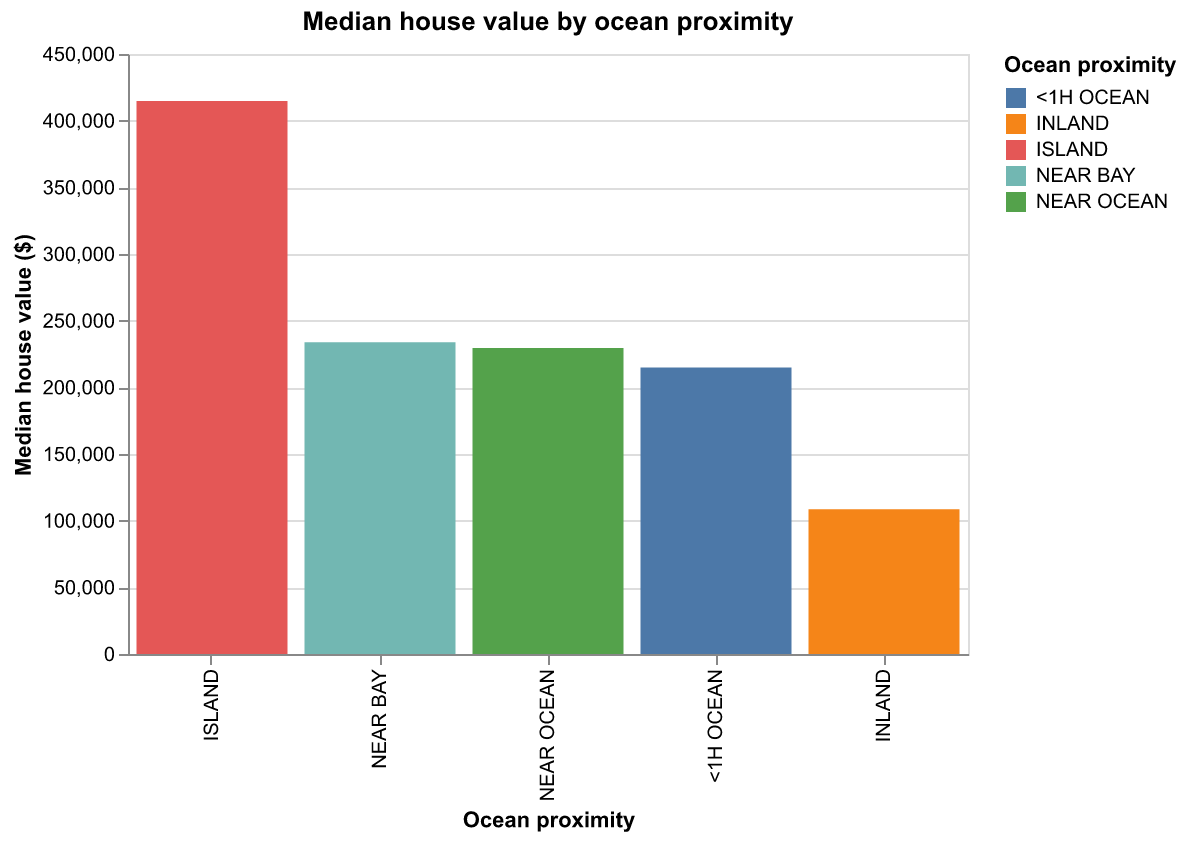
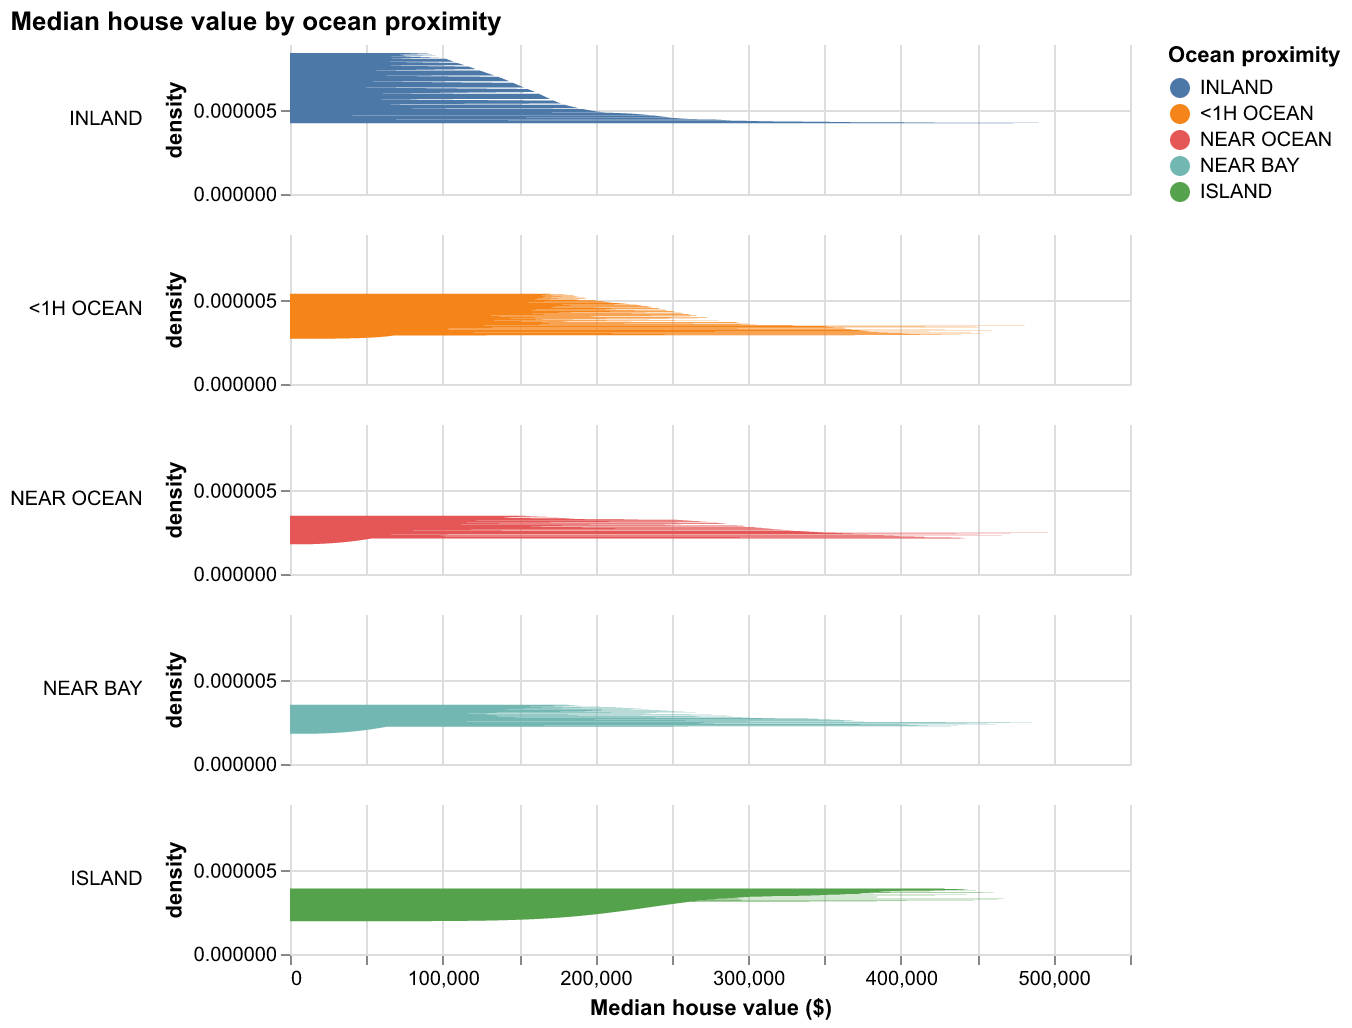
Changes the bar plot to box plot

diff --git a/src/eda_code.py b/src/eda_code.py
@@ -244,25 +244,23 @@ def correlation_heatmap(df: pd.DataFrame) -> alt.Chart:
     )
 
 
-def ocean_proximity_bar(df: pd.DataFrame) -> alt.Chart:
+def ocean_proximity_boxplot(df: pd.DataFrame) -> alt.Chart:
     """
-    Bar chart of median house value by ocean_proximity.
+    Box plot of median house value by ocean_proximity.
     """
     col = "ocean_proximity"
     if col not in df.columns or "median_house_value" not in df.columns:
-        return alt.Chart(pd.DataFrame()).mark_bar().properties(width=CHART_WIDTH, height=CHART_HEIGHT)
-    agg = df.groupby(col, observed=True)["median_house_value"].median().reset_index()
-    agg = agg.sort_values("median_house_value", ascending=False)
+        return alt.Chart(pd.DataFrame()).mark_boxplot().properties(width=CHART_WIDTH, height=CHART_HEIGHT)
+    data = df[[col, "median_house_value"]].dropna()
+    if data.empty:
+        return alt.Chart(pd.DataFrame()).mark_boxplot().properties(width=CHART_WIDTH, height=CHART_HEIGHT)
     return (
-        alt.Chart(agg)
-        .mark_bar()
+        alt.Chart(data)
+        .mark_boxplot(extent="min-max")
         .encode(
-            alt.X("ocean_proximity:N", title="Ocean proximity", sort="-y"),
-            alt.Y("median_house_value:Q", title="Median house value ($)"),
-            alt.Color(
-                "ocean_proximity:N",
-                legend=alt.Legend(title="Ocean proximity", orient="right"),
-            ),
+            alt.X(f"{col}:N", title="Ocean proximity"),
+            alt.Y("median_house_value:Q", title="Median house value ($)", scale=alt.Scale(zero=False)),
+            alt.Color(f"{col}:N", legend=alt.Legend(title="Ocean proximity", orient="right")),
         )
         .properties(width=CHART_WIDTH, height=CHART_HEIGHT, title="Median house value by ocean proximity")
     )

diff --git a/scripts/run_eda.py b/scripts/run_eda.py
@@ -23,7 +23,7 @@ from src.eda_code import (
     target_distribution,
     scatter_matrix_like,
     correlation_heatmap,
-    ocean_proximity_bar,
+    ocean_proximity_boxplot,
     geo_value_scatter,
     geo_value_binned_mean,
     geo_value_extremes,
@@ -75,7 +75,7 @@ def main() -> None:
     save_chart(target_distribution(df), OUTPUT_DIR / "target_distribution.png")
     save_chart(scatter_matrix_like(df, cols=["median_income", "housing_median_age", "latitude", "longitude"]), OUTPUT_DIR / "scatter_matrix.png")
     save_chart(correlation_heatmap(df), OUTPUT_DIR / "correlation_heatmap.png")
-    save_chart(ocean_proximity_bar(df), OUTPUT_DIR / "ocean_proximity_bar.png")
+    save_chart(ocean_proximity_boxplot(df), OUTPUT_DIR / "ocean_proximity_boxplot.png")
     save_chart(geo_value_scatter(df), OUTPUT_DIR / "geo_value_scatter.png")
     save_chart(geo_value_binned_mean(df, bin_size=0.25), OUTPUT_DIR / "geo_value_binned.png")
     save_chart(geo_value_extremes(df), OUTPUT_DIR / "geo_value_extremes.png")
@@ -132,7 +132,7 @@ Run `python scripts/run_eda.py` to regenerate outputs.
 
 {ocean_counts_md}
 
-![Value by ocean proximity](eda_outputs/ocean_proximity_bar.png)
+![Value by ocean proximity](eda_outputs/ocean_proximity_boxplot.png)
 
 - Coastal and bay-adjacent blocks tend to have higher median values.
 

diff --git a/reports/m1_proposal.md b/reports/m1_proposal.md
@@ -37,109 +37,36 @@ By interactively exploring these variables, Dr. Ramirez can better understand th
 
 ## Section 4: Exploratory Data Analysis
 
-This section presents an exploratory analysis of the 1990 California housing census data. The goal is to characterize the distribution of key variables, assess data quality, identify relationships between predictors and the target (median house value), and uncover spatial patterns that matter for urban economics and investment decisions. These findings directly inform which variables and views should be prioritized in the dashboard. Run `python scripts/run_eda.py` to regenerate outputs.
+In this section, we will perform an exploratory data analysis on the California housing data. We will use the data to answer the research questions related to user story 3.
 
-### Data overview and quality
-
-| metric         |      value |
-|:---------------|-----------:|
-| rows           | 20640      |
-| columns        |    10      |
-| memory (MB)    |     2.6981 |
-| duplicate rows |     0      |
-
-The dataset comprises 20,640 census block groups—the finest geographic level at which the U.S. Census Bureau publishes detailed housing statistics. With 10 variables per block and no duplicate rows, the data are well suited for interactive exploration. The modest memory footprint (~2.7 MB) allows for efficient client-side or server-side filtering and aggregation in a web-based dashboard, even when users apply multiple filters simultaneously.
-
-| column         |   missing_count |   missing_pct |
-|:---------------|----------------:|--------------:|
-| total_bedrooms |             207 |             1 |
-
-Missing data are confined to `total_bedrooms`, affecting only 1% of blocks (207 of 20,640). This pattern is common in census-derived housing data, where some blocks lack complete structural surveys. For modeling, simple imputation—such as the median number of bedrooms per block within the same ocean-proximity category—is typically sufficient. For visualization, excluding or imputing these cases has negligible impact on the overall picture.
-
-| column             | dtype   |
-|:-------------------|:--------|
-| longitude          | float64 |
-| latitude           | float64 |
-| housing_median_age | float64 |
-| total_rooms        | float64 |
-| total_bedrooms     | float64 |
-| population         | float64 |
-| households         | float64 |
-| median_income      | float64 |
-| median_house_value | float64 |
-| ocean_proximity    | str     |
-
-Nine variables are numeric (float64), spanning geography (longitude, latitude), structure (housing age, room counts), and demographics (population, households, income, house value). The single categorical variable, `ocean_proximity`, captures waterfront access—a hypothesized driver of price premiums—and will be central for comparing coastal versus inland markets.
-
-| column             |   count |        mean |         std |        min |         25% |         50% |         75% |         max |        q10 |         q90 |
-|:-------------------|--------:|------------:|------------:|-----------:|------------:|------------:|------------:|------------:|-----------:|------------:|
-| longitude          |   20640 |   -119.57   |      2.0035 |  -124.35   |   -121.8    |   -118.49   |   -118.01   |   -114.31   |  -122.29   |   -117.25   |
-| latitude           |   20640 |     35.6319 |      2.136  |    32.54   |     33.93   |     34.26   |     37.71   |     41.95   |    33.63   |     38.48   |
-| housing_median_age |   20640 |     28.6395 |     12.5856 |     1      |     18      |     29      |     37      |     52      |    13      |     46      |
-| total_rooms        |   20640 |   2635.76   |   2181.62   |     2      |   1447.75   |   2127      |   3148      |  39320      |   941      |   4651.5    |
-| total_bedrooms     |   20433 |    537.871  |    421.385  |     1      |    296      |    435      |    647      |   6445      |   198      |    965      |
-| population         |   20640 |   1425.48   |   1132.46   |     3      |    787      |   1166      |   1725      |  35682      |   510      |   2566      |
-| households         |   20640 |    499.54   |    382.33   |     1      |    280      |    409      |    605      |   6082      |   184      |    890      |
-| median_income      |   20640 |      3.8707 |      1.8998 |     0.4999 |      2.5634 |      3.5348 |      4.7432 |     15.0001 |     1.9038 |      6.1592 |
-| median_house_value |   20640 | 206856      | 115396      | 14999      | 119600      | 179700      | 264725      | 500001      | 82300      | 376600      |
-
-Summary statistics reveal the scale and variability of each variable. Median house values span from roughly \$15,000 to \$500,000 (the latter being a censored cap in the original data), with a mean of about \$207,000 and a standard deviation of \$115,000—indicating substantial variation across blocks. Median income (reported in tens of thousands of dollars) averages 3.87, with values up to 15; this variable is expected to be a strong predictor of house value. Geographic coordinates cover California’s extent (longitude from −124 to −114, latitude from 33 to 42), and structural variables such as total rooms, population, and households exhibit high variance, with some blocks orders of magnitude larger than others. The histograms below visualize the full distribution of each numeric variable, helping to spot skewness, outliers, and multimodality.
+The dataset contains nine numeric variables (geography, structure, demographics) and one key categorical variable, `ocean_proximity`, which enables analysis of waterfront versus inland markets.
 
 ![Numeric histograms](eda_outputs/histograms_numeric.png)
-
-### Target and predictor relationships
-
-![Target distribution](eda_outputs/target_distribution.png)
-
-The target variable, `median_house_value`, is right-skewed: most blocks fall in the lower-to-mid range, with a long tail of high-value blocks (particularly in coastal and metro areas). This skew has important implications for modeling: ordinary least-squares regression on raw values can be distorted by outliers, and a log transformation (e.g., `log1p`) typically stabilizes variance and improves fit. The dashboard can offer both raw and log-scaled views to accommodate different analytical needs.
-
-| column             |   correlation |
-|:-------------------|--------------:|
-| median_income      |        0.6881 |
-| latitude           |       -0.1442 |
-| total_rooms        |        0.1342 |
-| housing_median_age |        0.1056 |
-| households         |        0.0658 |
-| total_bedrooms     |        0.0497 |
-| longitude          |       -0.046  |
-| population         |       -0.0246 |
-
-Median income emerges as the strongest correlate of house value (r ≈ 0.69), consistent with economic theory: households with higher income bid up housing in desirable areas. Latitude shows a moderate negative correlation (r ≈ −0.14), reflecting the fact that Southern California coastal markets (lower latitude) include some of the state’s most expensive areas, while northern inland regions tend to be more affordable. Total rooms, housing age, and households have weaker but positive associations with value. Longitude and population show near-zero or slightly negative correlations. The correlation heatmap and scatter matrix below illustrate these patterns and highlight multicollinearity among related variables (e.g., rooms, bedrooms, households).
 
 ![Correlation heatmap](eda_outputs/correlation_heatmap.png)
 
 ![Scatter matrix](eda_outputs/scatter_matrix.png)
 
-The scatter plots of median house value against selected predictors confirm the correlation results. Income displays a strong, roughly linear relationship with value—higher-income blocks reliably command higher prices. Housing age and geographic coordinates show weaker, more diffuse associations; they may capture residual location effects that income does not fully absorb. For traders, this suggests that income is the primary screening variable, but geography and structure add nuance when comparing otherwise similar neighborhoods.
+The plots above show that California’s highest house values concentrate along the coast and in major metro areas, while inland regions tend to have much lower values. Spatial aggregation and value extremes highlight the strong coastal premium and regional disparities, underscoring geography as a key driver of property prices.
 
-### Categorical EDA
+The bar chart below shows median house values categorized by ocean proximity. Coastal neighborhoods generally command higher prices, highlighting the premium for ocean access.
 
-| ocean_proximity   |   count |
-|:------------------|--------:|
-| <1H OCEAN         |    9136 |
-| INLAND            |    6551 |
-| NEAR OCEAN        |    2658 |
-| NEAR BAY          |    2290 |
-| ISLAND            |       5 |
-
-The distribution of `ocean_proximity` is uneven: the largest categories are “<1H OCEAN” (within an hour of the ocean, 9,136 blocks) and “INLAND” (6,551 blocks). “NEAR OCEAN” and “NEAR BAY” together account for about one-quarter of blocks, and only five blocks are classified as “ISLAND.” The bar chart of median house value by category reveals a striking coastal premium: ocean-adjacent and bay-adjacent blocks consistently show higher median values than inland blocks. This pattern supports the amenity-value hypothesis—waterfront access and coastal climate are capitalized into property prices. For the dashboard, enabling comparisons across ocean-proximity categories will allow traders to assess whether coastal premiums are uniform or vary by region (e.g., Bay Area vs. Southern California).
-
-![Value by ocean proximity](eda_outputs/ocean_proximity_bar.png)
+![Value by ocean proximity](eda_outputs/ocean_proximity_boxplot.png)
 
 ### Spatial Distribution and Clusters (Urban Economics Focus)
 
-Geographic visualization is central to understanding California’s housing landscape. As an urban economics researcher or trader, identifying where high- and low-value blocks concentrate—and how those clusters align with income, coast, and infrastructure—is essential for evaluating investment opportunities and regional price gradients.
+Geographic visualization is central to understanding California’s housing landscape. As an urban economics researcher, identifying where high- and low-value blocks concentrate—and how those clusters align with income, coast, and infrastructure—is essential for evaluating investment opportunities and regional price gradients.
 
 ![Geographic scatter](eda_outputs/geo_value_scatter.png)
 
-The scatter plot of longitude and latitude, colored by median house value, reveals strong spatial clustering. The San Francisco Bay Area and the greater Los Angeles basin emerge as distinct high-value corridors (darker shading), while the Central Valley, the Inland Empire away from the coast, and much of northern California show lower values. Coastal strips tend to be more expensive than adjacent inland areas, and major highways and metro centers appear to anchor elevated price zones. The interactive nature of this view—with zoom, pan, and tooltips—will let dashboard users drill into specific regions and compare neighborhoods.
+Higher house values cluster along the coast; inland regions show lower prices. Users can interactively explore regions and value patterns.
 
 ![Spatial aggregation](eda_outputs/geo_value_binned.png)
 
-Aggregating blocks into a spatial grid (binning longitude and latitude) smooths noise and emphasizes regional gradients. The resulting heatmap makes it easier to see broad patterns: elevated median values along the coast, around San Francisco and Los Angeles, and in parts of San Diego, contrasted with lower values in the Central Valley and northern interior. Traders can use this view to identify undervalued inland pockets or overvalued coastal segments, and to assess how far price premiums extend from metro cores.
+Binning blocks into a heatmap highlights coastal and metro areas as high-value regions, with lower values inland.
 
 ![Value extremes](eda_outputs/geo_value_extremes.png)
 
-Focusing on the top 10% (green) and bottom 10% (red) value blocks highlights spatial segregation. High-value blocks concentrate along the coast and around major metros; low-value blocks are overwhelmingly inland and in less urbanized areas. The geography of extremes reinforces the hypothesis that location—proximity to coast, employment centers, and amenities—is a primary driver of California’s housing price structure. For the dashboard, allowing users to toggle between raw scatter, binned aggregation, and extremity views will support both exploratory and hypothesis-driven analysis.
+The top 10% of house values cluster along the coast, while the lowest are inland.
 
 
